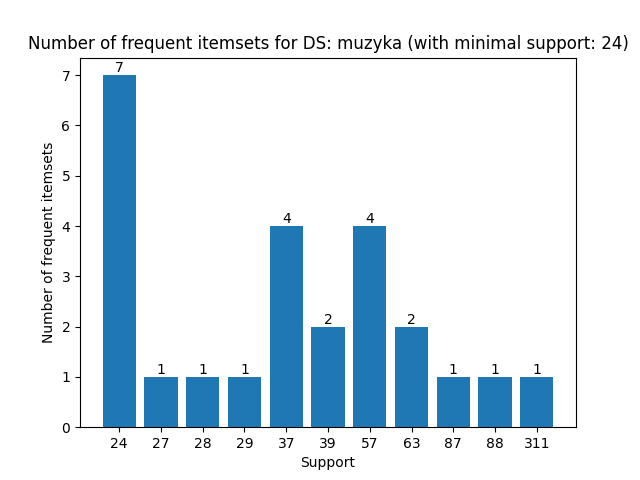
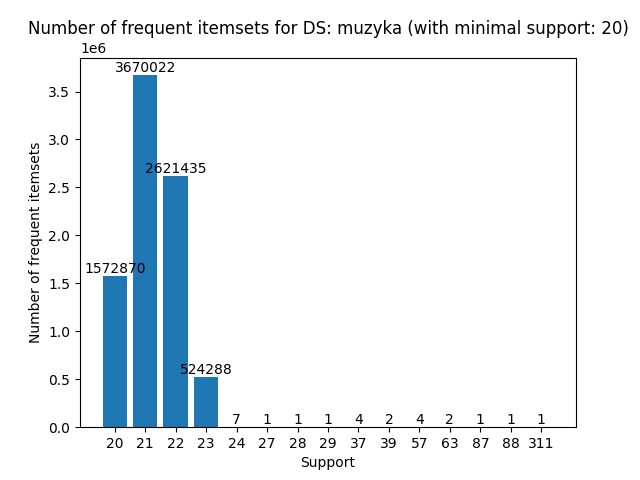
Change min supp for muzyka.csv

diff --git a/experiments_stage2/main.py b/experiments_stage2/main.py
@@ -5,7 +5,7 @@ from time_measure import save_result_to_csv
 def main():
     dataset_paths = [['ksiazki.csv', 1],
                      ['movies.csv', 1],
-                     ['muzyka.csv', 24],    # TODO: Try smaller values
+                     ['muzyka.csv', 20],    # TODO: Try smaller values, bigger than 10
                      ['politics.csv', 1],
                      ['cinema.csv', 2]]     # TODO: Try with 1
 
